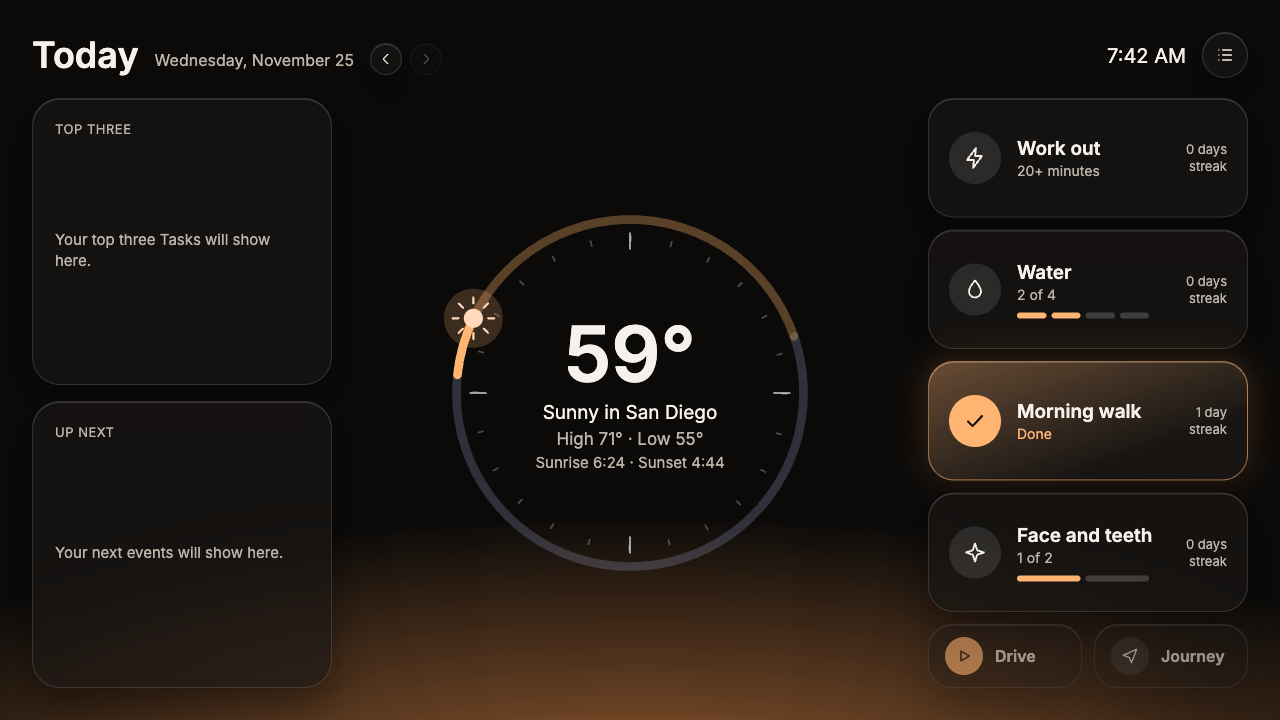
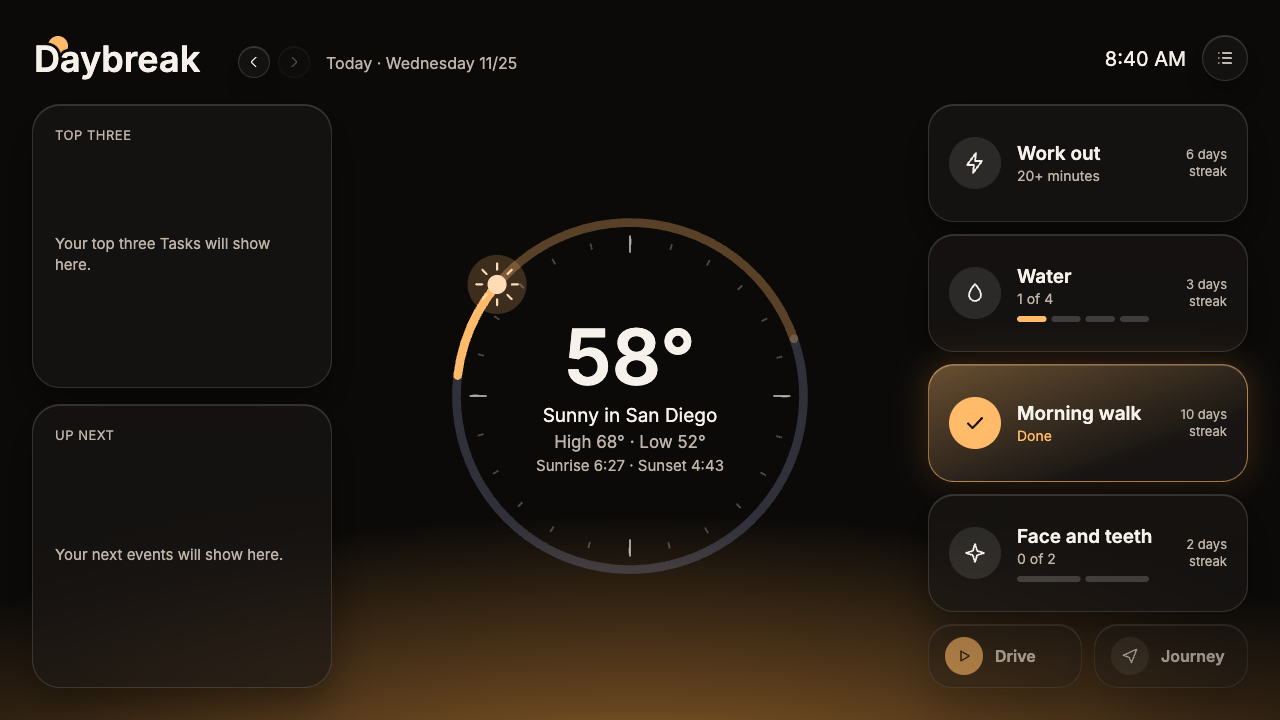
Redraws the dial's moon and retakes the README screenshots

diff --git a/apps/daybreak/src/components/SunDial.tsx b/apps/daybreak/src/components/SunDial.tsx
@@ -12,6 +12,7 @@ import Svg, {
   Circle,
   ClipPath,
   Defs,
+  Ellipse,
   G,
   Path,
   RadialGradient,
@@ -68,14 +69,27 @@ function Sun({ x, y, palette }: { x: number; y: number; palette: Palette }) {
   );
 }
 
-/** The dark patches on the moon's face, as offsets from its centre. */
-const SEAS: [number, number, number][] = [
-  [-5, -5, 5.5],
-  [3.5, -7, 3.2],
-  [6, 2.5, 3.6],
-  [-2.5, 5.5, 3],
-  [-8.5, 3, 2.2],
-  [1, -0.5, 2],
+/**
+ * The moon's dark seas as seen from Earth, as ovals on a moon of radius 15:
+ * offset from the centre, half-width, half-height and tilt in degrees.
+ */
+const SEAS: [number, number, number, number, number][] = [
+  [-6.9, -1.5, 3.9, 6.9, -12],
+  [-3.0, -6.9, 4.2, 4.2, 0],
+  [3.3, -5.7, 3.0, 3.0, 0],
+  [5.7, -1.2, 3.3, 2.7, 25],
+  [8.7, 2.7, 1.8, 2.7, 0],
+  [10.2, -4.5, 1.5, 1.2, 0],
+  [-2.7, 4.8, 3.3, 2.1, -20],
+  [-6.9, 6.6, 1.5, 1.2, 0],
+];
+
+/** Bright young craters: offset from the centre, radius and brightness. */
+const CRATERS: [number, number, number, number][] = [
+  [-1.5, 10.8, 0.9, 0.95],
+  [-4.5, -0.3, 0.66, 0.8],
+  [-9.0, -3.6, 0.48, 0.7],
+  [3.6, 7.2, 0.48, 0.6],
 ];
 
 function Moon({ x, y, moon }: { x: number; y: number; moon: MoonPhase }) {
@@ -115,13 +129,27 @@ function Moon({ x, y, moon }: { x: number; y: number; moon: MoonPhase }) {
       {/* The surface stays put. Only the lit part of it shows. */}
       <G clipPath="url(#moon-lit)">
         <Circle cx={x} cy={y} r={radius} fill="url(#moon-face)" />
-        {SEAS.map(([dx, dy, size]) => (
+        <G opacity={0.5}>
+          {SEAS.map(([dx, dy, rx, ry, tilt]) => (
+            <Ellipse
+              key={`${dx},${dy}`}
+              cx={x + dx}
+              cy={y + dy}
+              rx={rx}
+              ry={ry}
+              fill="#6b7086"
+              transform={`rotate(${tilt} ${fix(x + dx)} ${fix(y + dy)})`}
+            />
+          ))}
+        </G>
+        {CRATERS.map(([dx, dy, size, opacity]) => (
           <Circle
             key={`${dx},${dy}`}
             cx={x + dx}
             cy={y + dy}
             r={size}
-            fill="rgba(96,106,140,0.38)"
+            fill="#ffffff"
+            opacity={opacity}
           />
         ))}
       </G>

diff --git a/README.md b/README.md
@@ -31,6 +31,9 @@ over at 4:00 am, so a late night still counts toward the day it started in.
 A tap on one screen shows up on the other within a couple of seconds. Taps
 made without a connection are kept and sent when it comes back.
 
+Opening the app plays a short sunrise: the sun comes up over a horizon, the
+name rises out of the line, and the two settle into the logo in the header.
+
 ## Colors that follow the sun
 
 Nothing on the screen is a fixed accent color. The accent, the glow at the
